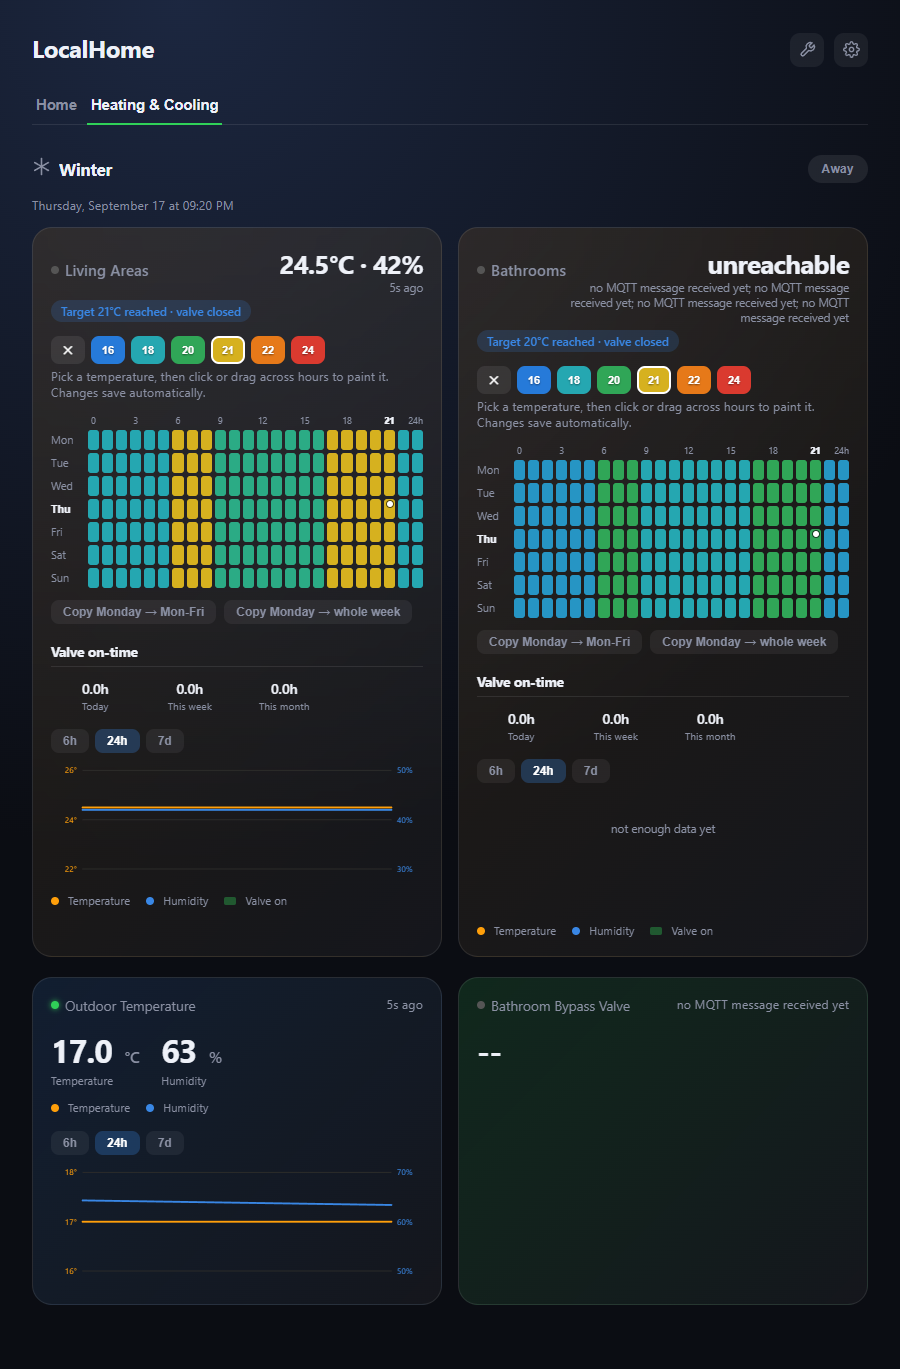
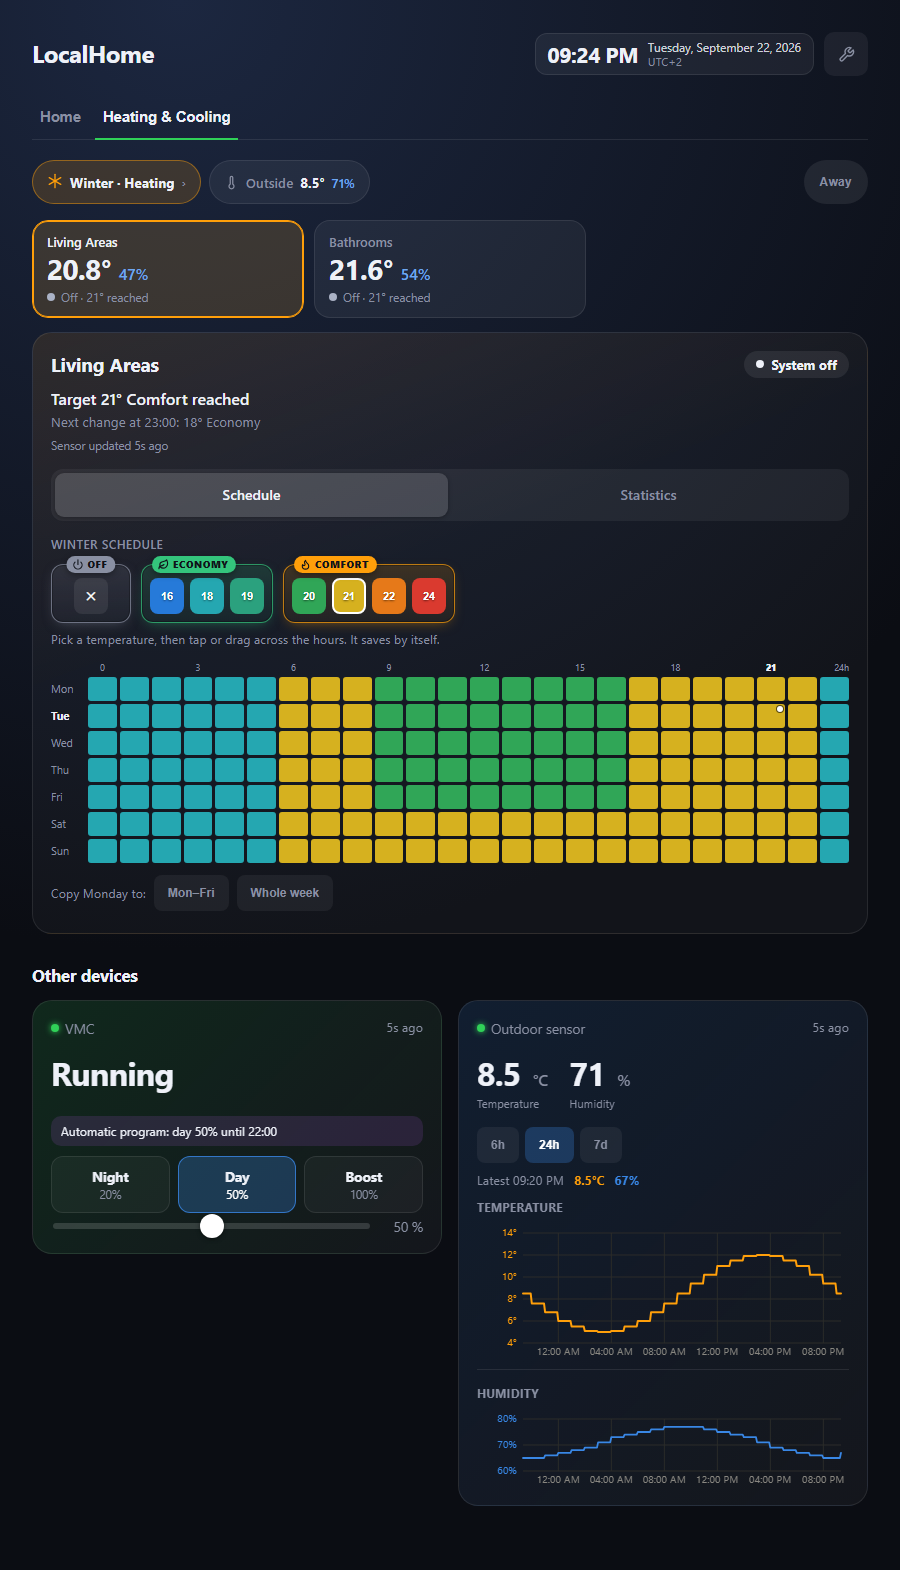
Refresh the screenshots for the redesigned interface
The three in the README were from before the Climate tab was redesigned.
Retaken from a simulated demo apartment (two zones, outdoor sensor, VMC
with its day/night program, two days of history), plus a new one of a
zone's statistics.

diff --git a/README.md b/README.md
@@ -17,14 +17,17 @@ you've outgrown it - that's a fine outcome for a project this size.
 
 ## Screenshots
 
-All three captured against the `simulated` driver and example device
+All of them captured against the `simulated` driver and example device
 ids - no real hardware needed to see this for yourself.
 
 | Home | Heating & Cooling |
 |---|---|
-| ![Home tab: sensor cards and covers](docs/screenshots/home.png) | ![Heating & Cooling tab: per-zone schedule, on-time history and chart](docs/screenshots/climate.png) |
+| ![Home tab: sensor cards and covers](docs/screenshots/home.png) | ![Heating & Cooling tab: a tile per zone, the zone in detail with its weekly schedule, and the other devices](docs/screenshots/climate.png) |
 
-![Climate admin panel: mapping zones onto Shelly device ids, MQTT broker settings, and live per-zone status](docs/screenshots/climate-admin.png)
+![A zone's statistics: every run in the last 24 hours with what temperature and humidity did meanwhile, then the charts with the stretches the system was on shaded](docs/screenshots/statistics.png)
+*A zone's statistics: when the system ran, and what it did.*
+
+![Climate admin panel: mapping zones onto Shelly device ids, MQTT broker settings, the VMC's day/night program, and live per-zone status](docs/screenshots/climate-admin.png)
 *Climate admin panel - see [below](#the-shelly-climate-admin-panel).*
 
 ## Install on an Arduino UNO Q, step by step
